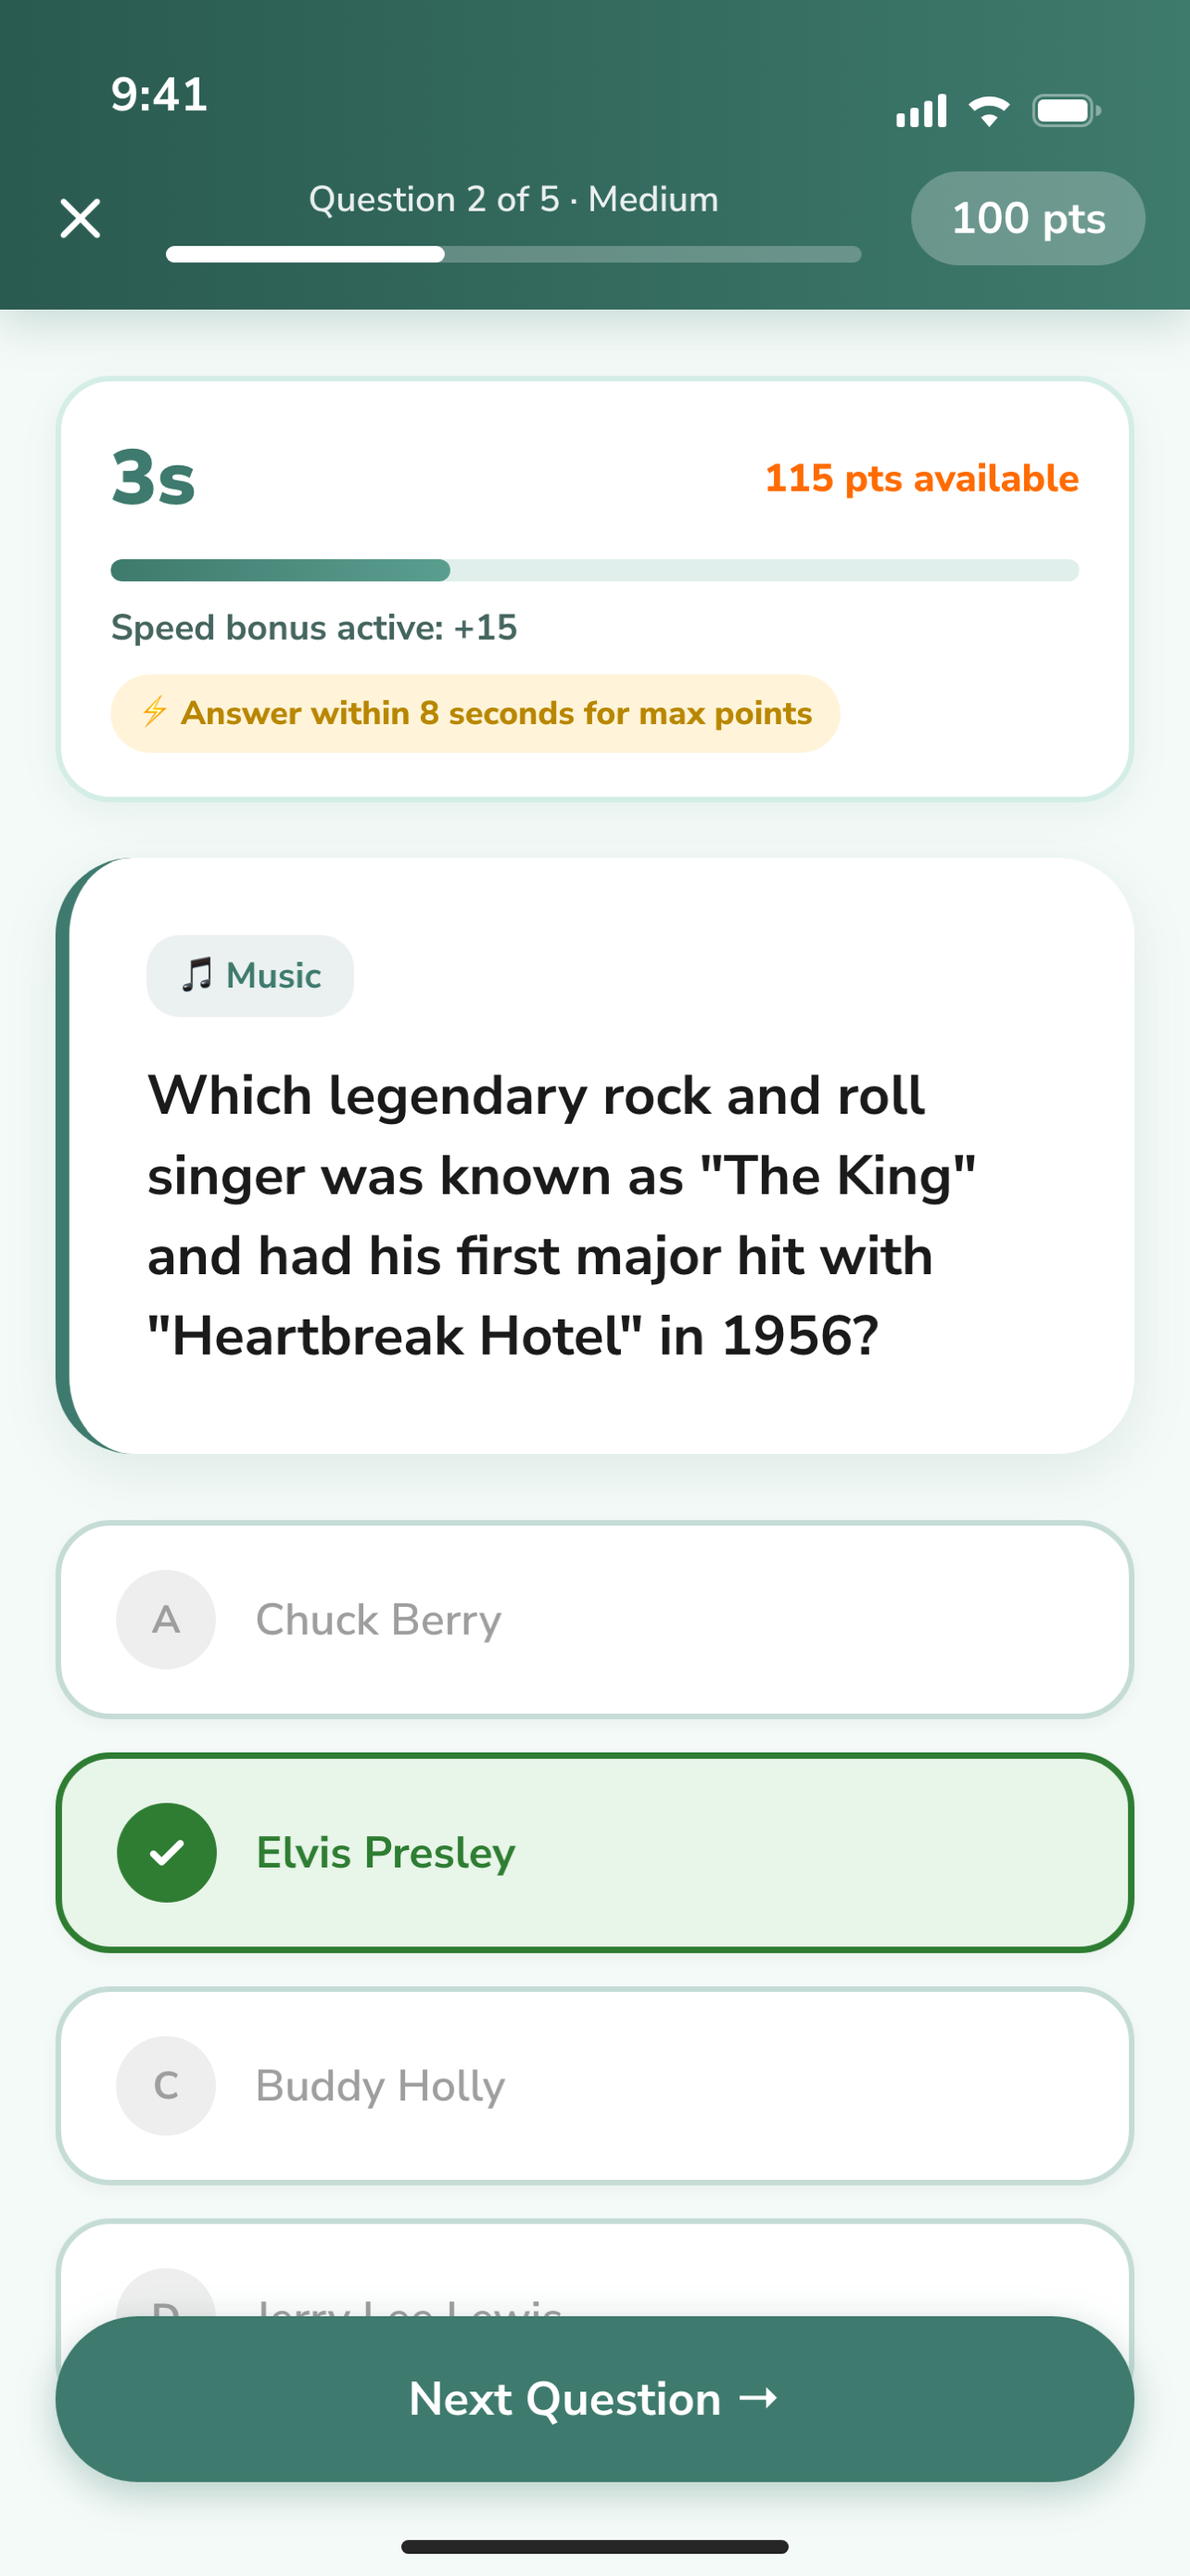
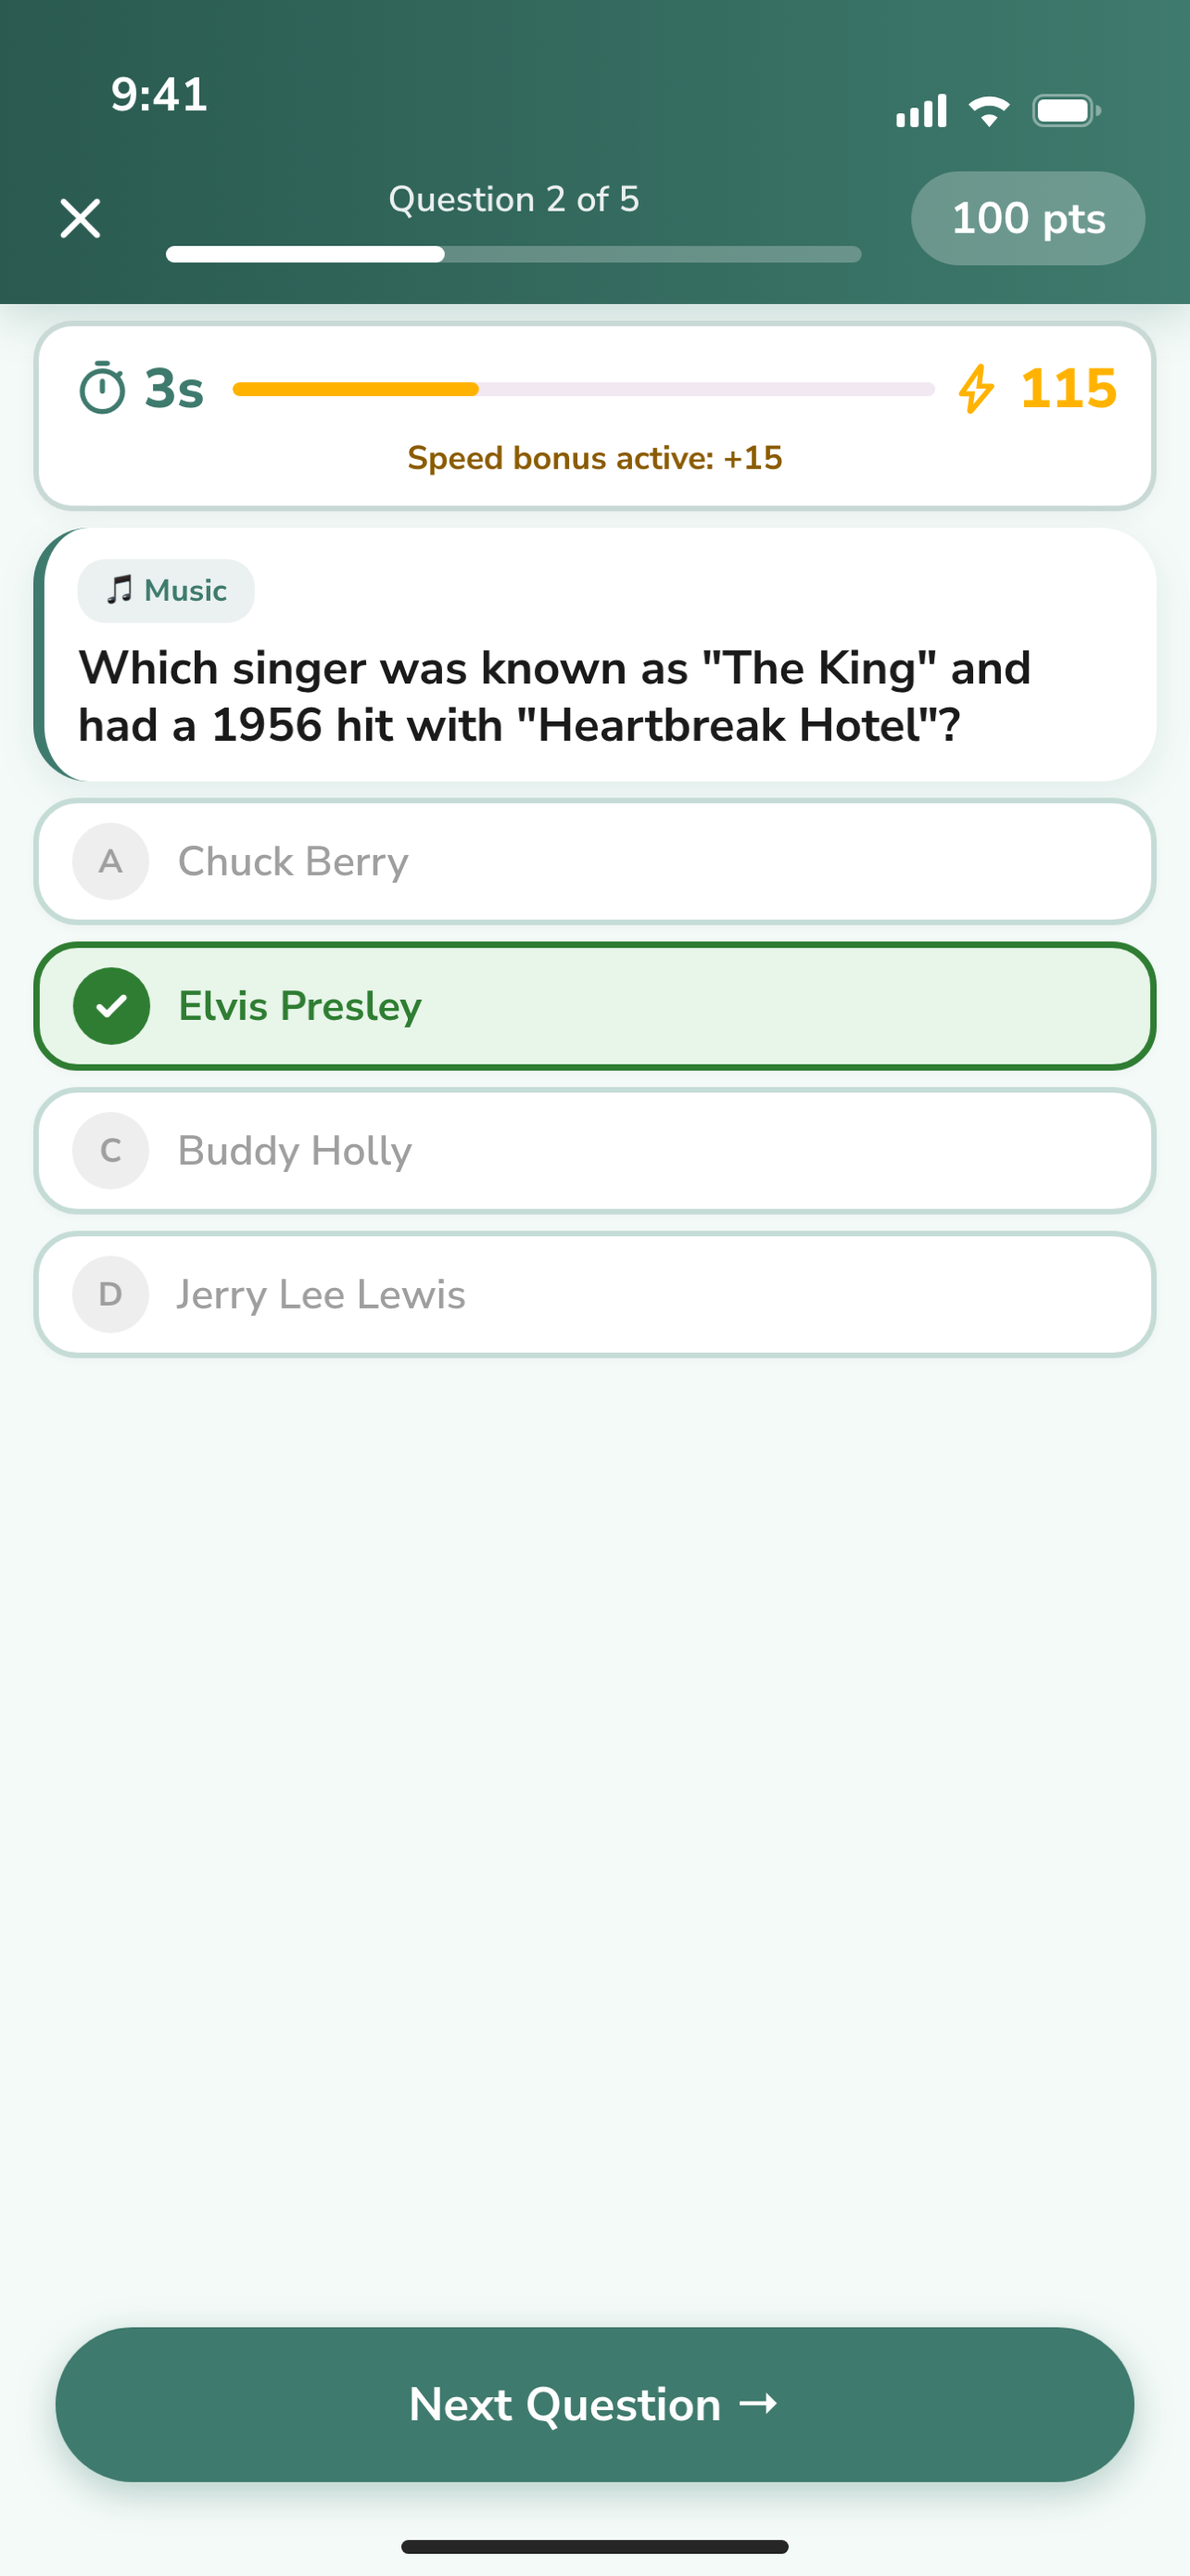
Refresh Remember When landing for v1.2.0 screenshots and copy.
Swap in no-scroll quiz, Home-only results, and calendar history; mention social sign-in and seven quiz tracks.

diff --git a/rememberwhen/index.html b/rememberwhen/index.html
@@ -4,14 +4,14 @@
 <meta charset="utf-8">
 <meta name="viewport" content="width=device-width, initial-scale=1">
 <title>Remember When — Daily Nostalgia Quiz | SoberSend</title>
-<meta name="description" content="Remember When is a free daily nostalgia quiz by SoberSend, available on iOS and Android. Play five questions a day, challenge friends, keep streaks, and revisit your history.">
+<meta name="description" content="Remember When is a free daily nostalgia quiz by SoberSend, available on iOS and Android. Five questions on one screen, calendar history, sign in your way, and play with friends.">
 <meta name="author" content="SoberSend">
 <meta name="theme-color" content="#FAF4E8">
 <link rel="icon" href="/rememberwhen/img/favicon-32.png?v=teal-tv" type="image/png" sizes="32x32">
 <link rel="apple-touch-icon" href="/rememberwhen/img/apple-touch-icon.png?v=teal-tv">
 <meta property="og:type" content="website">
 <meta property="og:title" content="Remember When — Daily Nostalgia Quiz">
-<meta property="og:description" content="Five daily nostalgia questions tailored to your era. Play with friends, keep streaks, and revisit your history.">
+<meta property="og:description" content="Five daily nostalgia questions on one screen. Sign in with Google, Apple, Facebook, or email. Play with friends and keep your streak.">
 <meta property="og:url" content="https://sobersend.com/rememberwhen/">
 </head>
 <body>
@@ -40,7 +40,7 @@
         <span style="font-weight:800; font-size:17px; color:#2F6357;">Daily nostalgia quiz</span>
       </div>
       <h1 style="font-family:'Fraunces',serif; font-weight:700; font-size:clamp(56px,7.5vw,88px); line-height:1.04; margin:26px 0 0; letter-spacing:-.01em;">Remember <span style="background:linear-gradient(105deg,#FFB84D 8%,#E45F24 92%); -webkit-background-clip:text; background-clip:text; color:transparent;">When</span></h1>
-      <p style="font-size:clamp(20px,2vw,23px); line-height:1.55; margin:24px 0 0; color:#5A4F44; font-weight:600; max-width:520px;">Five questions every day — music, movies, TV, and the decades you grew up in. Play with friends, keep your streak.</p>
+      <p style="font-size:clamp(20px,2vw,23px); line-height:1.55; margin:24px 0 0; color:#5A4F44; font-weight:600; max-width:520px;">Five questions every day, all on one screen — music, movies, TV, and the decades you grew up in. Sign in your way. Play with friends, keep your streak.</p>
       <div style="display:flex; gap:18px; margin-top:38px; align-items:center; flex-wrap:wrap;">
         <a href="https://apps.apple.com/us/app/remember-when-nostalgia-quiz/id6785160732" style="display:flex; align-items:center; gap:12px; background:#2A2320; color:#FAF4E8; text-decoration:none; padding:13px 24px; border-radius:16px; box-shadow:0 8px 22px rgba(42,26,46,.28);">
           <svg width="26" height="26" viewBox="0 0 384 512" aria-hidden="true"><path fill="#FAF4E8" d="M318.7 268.7c-.2-36.7 16.4-64.4 50-84.8-18.8-26.9-47.2-41.7-84.7-44.6-35.5-2.7-74.3 20.7-88.5 20.7-15 0-49.4-19.7-76.4-19.7C63.3 141.2 4 184.8 4 273.5q0 39.3 14.4 81.2c12.8 36.7 59 126.7 107.2 125.2 25.2-.6 43-17.9 75.8-17.9 31.8 0 48.3 17.9 76.4 17.9 48.6-.7 90.4-82.5 102.6-119.3-65.2-30.7-61.7-90-61.7-91.9zm-56.6-164.2c27.3-32.4 24.8-61.9 24-72.5-24.1 1.4-52 16.4-67.9 34.9-17.5 19.8-27.8 44.3-25.6 71.9 26.1 2 49.9-11.4 69.5-34.3z"/></svg>
@@ -58,7 +58,7 @@
       <div aria-hidden="true" style="position:absolute; top:50%; left:50%; width:460px; height:460px; transform:translate(-50%,-50%); border-radius:50%; background:repeating-linear-gradient(0deg, rgba(62,122,109,.09) 0 2px, transparent 2px 7px); -webkit-mask-image:radial-gradient(circle, black 40%, transparent 70%); mask-image:radial-gradient(circle, black 40%, transparent 70%);"></div>
       <div style="position:absolute; top:50%; left:50%; transform:translate(-50%,-50%); width:min(290px,60vw);">
         <div style="border-radius:46px; background:#2A2320; padding:10px; box-shadow:0 30px 60px rgba(42,26,46,.32); animation:floatA 7s ease-in-out infinite; --r:4deg;">
-          <img src="uploads/screenshot-1-home.png?v=11114c" alt="Remember When home screen showing today's five-question quiz, a 7-day streak, and friends' scores" style="display:block; width:100%; border-radius:37px;">
+          <img src="uploads/screenshot-1-home.png?v=121" alt="Remember When home screen showing today's five-question quiz, a 7-day streak, and friends' scores" style="display:block; width:100%; border-radius:37px;">
         </div>
       </div>
       <div aria-hidden="true" style="position:absolute; top:38px; left:6px; width:84px; height:84px; border-radius:50%; background:#2A2320; display:flex; align-items:center; justify-content:center; box-shadow:0 12px 26px rgba(42,26,46,.25); animation:floatB 8s ease-in-out infinite; --r:-8deg;">
@@ -82,39 +82,39 @@
   <div style="display:flex; gap:clamp(24px,3vw,44px); justify-content:center; flex-wrap:wrap; margin-top:clamp(40px,5vw,64px); align-items:flex-start;">
     <figure style="margin:0; display:flex; flex-direction:column; align-items:center; gap:18px;">
       <div style="width:250px; border-radius:42px; background:#2A2320; padding:9px; box-shadow:0 24px 50px rgba(42,26,46,.25); transform:rotate(-2deg);">
-        <img src="uploads/screenshot-1-home.png?v=11114c" alt="Home screen: today's quiz with a Play Now button, friends' scores, and a weekly chart" style="display:block; width:100%; border-radius:34px;">
+        <img src="uploads/screenshot-1-home.png?v=121" alt="Home screen: today's quiz with a Play Now button, friends' scores, and a weekly chart" style="display:block; width:100%; border-radius:34px;">
       </div>
       <figcaption style="font-size:19px; font-weight:800; color:#2A2320;">Your daily quiz</figcaption>
     </figure>
     <figure style="margin:0; display:flex; flex-direction:column; align-items:center; gap:18px; padding-top:34px;">
       <div style="width:250px; border-radius:42px; background:#2A2320; padding:9px; box-shadow:0 24px 50px rgba(42,26,46,.25);">
-        <img src="uploads/screenshot-2-quiz.png?v=11114c" alt="Quiz screen: question 2 of 5, a music question with four multiple-choice answers" style="display:block; width:100%; border-radius:34px;">
+        <img src="uploads/screenshot-2-quiz.png?v=121" alt="Quiz screen: timer, question, and all four answers plus Next on one screen with no scrolling" style="display:block; width:100%; border-radius:34px;">
       </div>
-      <figcaption style="font-size:19px; font-weight:800; color:#2A2320;">Five questions a day</figcaption>
+      <figcaption style="font-size:19px; font-weight:800; color:#2A2320;">Everything on one screen</figcaption>
     </figure>
     <figure style="margin:0; display:flex; flex-direction:column; align-items:center; gap:18px;">
       <div style="width:250px; border-radius:42px; background:#2A2320; padding:9px; box-shadow:0 24px 50px rgba(42,26,46,.25);">
-        <img src="uploads/screenshot-3-results.png?v=11114c" alt="Results screen: three stars, You Win with 420 points, and a 7-day streak badge" style="display:block; width:100%; border-radius:34px;">
+        <img src="uploads/screenshot-3-results.png?v=121" alt="Results screen after today's quiz with a Home button only — no replay" style="display:block; width:100%; border-radius:34px;">
       </div>
       <figcaption style="font-size:19px; font-weight:800; color:#2A2320;">Keep your streak alive</figcaption>
     </figure>
     <figure style="margin:0; display:flex; flex-direction:column; align-items:center; gap:18px; padding-top:34px;">
       <div style="width:250px; border-radius:42px; background:#2A2320; padding:9px; box-shadow:0 24px 50px rgba(42,26,46,.25); transform:rotate(2deg);">
-        <img src="uploads/screenshot-4-friends.png?v=11114c" alt="Friends Circle screen: your invite code, plus a leaderboard of friends' daily scores and streaks" style="display:block; width:100%; border-radius:34px;">
+        <img src="uploads/screenshot-4-friends.png?v=121" alt="Friends Circle screen: invite code and a leaderboard of friends' daily scores and streaks" style="display:block; width:100%; border-radius:34px;">
       </div>
       <figcaption style="font-size:19px; font-weight:800; color:#2A2320;">Play with friends</figcaption>
     </figure>
     <figure style="margin:0; display:flex; flex-direction:column; align-items:center; gap:18px;">
       <div style="width:250px; border-radius:42px; background:#2A2320; padding:9px; box-shadow:0 24px 50px rgba(42,26,46,.25); transform:rotate(-1deg);">
-        <img src="uploads/screenshot-5-group.png?v=11114c" alt="Group screen showing an invite code and daily scores for a four-person group" style="display:block; width:100%; border-radius:34px;">
+        <img src="uploads/screenshot-5-group.png?v=121" alt="Group screen showing an invite code and daily scores for a four-person group" style="display:block; width:100%; border-radius:34px;">
       </div>
       <figcaption style="font-size:19px; font-weight:800; color:#2A2320;">Play in groups</figcaption>
     </figure>
     <figure style="margin:0; display:flex; flex-direction:column; align-items:center; gap:18px; padding-top:34px;">
       <div style="width:250px; border-radius:42px; background:#2A2320; padding:9px; box-shadow:0 24px 50px rgba(42,26,46,.25); transform:rotate(1deg);">
-        <img src="uploads/screenshot-6-stats.png?v=11114c" alt="Stats screen showing all-time points, weekly performance, and global leaderboard" style="display:block; width:100%; border-radius:34px;">
+        <img src="uploads/screenshot-6-history.png?v=121" alt="Quiz history calendar: starred days you played, tap a day to review answers" style="display:block; width:100%; border-radius:34px;">
       </div>
-      <figcaption style="font-size:19px; font-weight:800; color:#2A2320;">Track your stats</figcaption>
+      <figcaption style="font-size:19px; font-weight:800; color:#2A2320;">Calendar history</figcaption>
     </figure>
   </div>
 </section>
@@ -126,7 +126,7 @@
     <div style="background:#FFF; border:2px solid #E7DFCF; border-radius:24px; padding:32px; display:flex; flex-direction:column; gap:16px;">
       <div aria-hidden="true" style="width:64px; height:52px; border-radius:12px; background:linear-gradient(120deg,#E45F24,#5E9C8F); position:relative; display:flex; align-items:center; justify-content:center;"><div style="width:34px; height:26px; border-radius:6px; background:#FAF4E8;"></div></div>
       <h3 style="font-size:23px; font-weight:800; margin:0;">A fresh quiz every day</h3>
-      <p style="font-size:19px; line-height:1.55; margin:0; color:#5A4F44;">Five new questions each morning across music, movies, TV, and the moments that made the news.</p>
+      <p style="font-size:19px; line-height:1.55; margin:0; color:#5A4F44;">Five new questions each morning — timer, question, and all four answers fit on one screen. No scrolling.</p>
     </div>
     <div style="background:#FFF; border:2px solid #E7DFCF; border-radius:24px; padding:32px; display:flex; flex-direction:column; gap:16px;">
       <div aria-hidden="true" style="width:52px; height:52px; border-radius:50%; background:#3E7A6D; position:relative;"><div style="position:absolute; top:50%; left:50%; width:4px; height:19px; background:#FAF4E8; border-radius:4px; transform-origin:50% 0; transform:rotate(-135deg);"></div><div style="position:absolute; top:50%; left:50%; width:8px; height:8px; border-radius:50%; background:#FF9800; transform:translate(-50%,-50%);"></div></div>
@@ -136,7 +136,7 @@
     <div style="background:#FFF; border:2px solid #E7DFCF; border-radius:24px; padding:32px; display:flex; flex-direction:column; gap:16px;">
       <div aria-hidden="true" style="position:relative; width:64px; height:52px;"><div style="position:absolute; left:0; top:6px; width:40px; height:40px; border-radius:50%; background:#5E9C8F;"></div><div style="position:absolute; left:24px; top:6px; width:40px; height:40px; border-radius:50%; background:#E45F24; mix-blend-mode:multiply;"></div></div>
       <h3 style="font-size:23px; font-weight:800; margin:0;">Friends &amp; groups</h3>
-      <p style="font-size:19px; line-height:1.55; margin:0; color:#5A4F44;">Share one simple invite code and everyone's daily scores appear side by side. Friendly rivalry included.</p>
+      <p style="font-size:19px; line-height:1.55; margin:0; color:#5A4F44;">Sign in with Google, Apple, Facebook, or email. Share one invite code and everyone's daily scores appear side by side.</p>
     </div>
     <div style="background:#FFF; border:2px solid #E7DFCF; border-radius:24px; padding:32px; display:flex; flex-direction:column; gap:16px;">
       <div aria-hidden="true" style="width:52px; height:52px; display:flex; align-items:flex-end; justify-content:center;"><div style="width:36px; height:44px; background:linear-gradient(180deg,#FF9800,#FF6B00); border-radius:50% 50% 50% 50% / 60% 60% 40% 40%; position:relative;"><div style="position:absolute; bottom:6px; left:50%; transform:translateX(-50%); width:16px; height:18px; background:#FFE0B8; border-radius:50% 50% 50% 50% / 60% 60% 40% 40%;"></div></div></div>
@@ -146,12 +146,12 @@
     <div style="background:#FFF; border:2px solid #E7DFCF; border-radius:24px; padding:32px; display:flex; flex-direction:column; gap:16px;">
       <div aria-hidden="true" style="width:64px; height:52px; display:flex; align-items:flex-end; gap:7px;"><div style="width:14px; height:24px; border-radius:5px; background:#5E9C8F;"></div><div style="width:14px; height:44px; border-radius:5px; background:#E45F24;"></div><div style="width:14px; height:34px; border-radius:5px; background:#FF9800;"></div></div>
       <h3 style="font-size:23px; font-weight:800; margin:0;">Stats &amp; history</h3>
-      <p style="font-size:19px; line-height:1.55; margin:0; color:#5A4F44;">Look back at every quiz you've played — scores, stars, best days — and watch your memory sharpen.</p>
+      <p style="font-size:19px; line-height:1.55; margin:0; color:#5A4F44;">Browse a calendar of past quizzes, tap any starred day to review your answers, and watch your memory sharpen.</p>
     </div>
     <div style="background:#FFF; border:2px solid #E7DFCF; border-radius:24px; padding:32px; display:flex; flex-direction:column; gap:16px;">
       <div aria-hidden="true" style="position:relative; width:64px; height:52px;"><div style="position:absolute; left:14px; bottom:0; width:18px; height:18px; border-radius:50%; background:#3E7A6D;"></div><div style="position:absolute; left:28px; bottom:14px; width:5px; height:34px; border-radius:3px; background:#3E7A6D;"></div><div style="position:absolute; left:28px; top:0; width:20px; height:8px; border-radius:3px; background:#FF9800; transform:rotate(-14deg);"></div></div>
       <h3 style="font-size:23px; font-weight:800; margin:0;">Themes &amp; quiz music</h3>
-      <p style="font-size:19px; line-height:1.55; margin:0; color:#5A4F44;">Pick a color scheme you love and play to retro pop, easy lounge, or disco nights.</p>
+      <p style="font-size:19px; line-height:1.55; margin:0; color:#5A4F44;">Pick a color scheme you love and choose from seven original quiz tracks. Star is the new default.</p>
     </div>
   </div>
   <div style="margin-top:24px; background:linear-gradient(120deg,#DCEAE4,#FFE9C7); border-radius:24px; padding:clamp(28px,4vw,40px); display:flex; align-items:center; gap:clamp(20px,3vw,36px); flex-wrap:wrap;">
